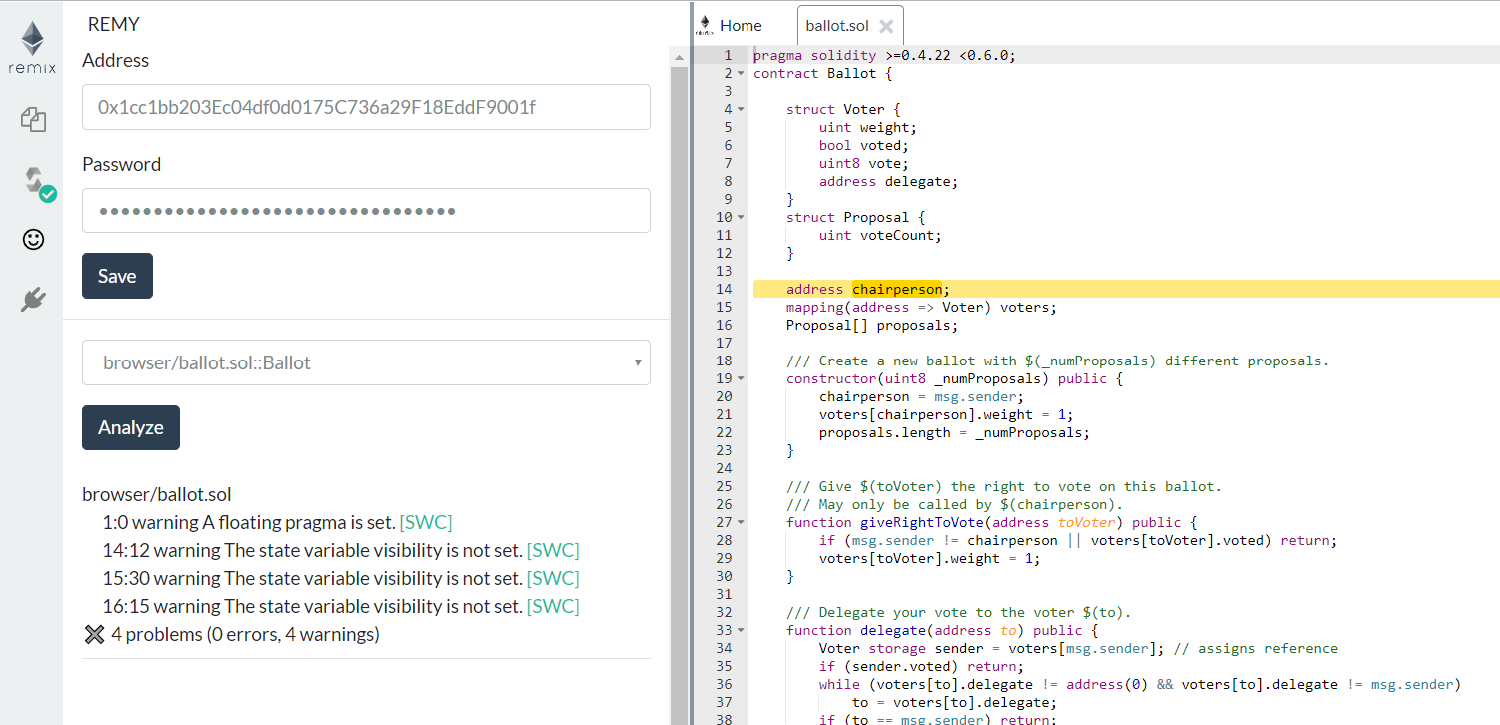
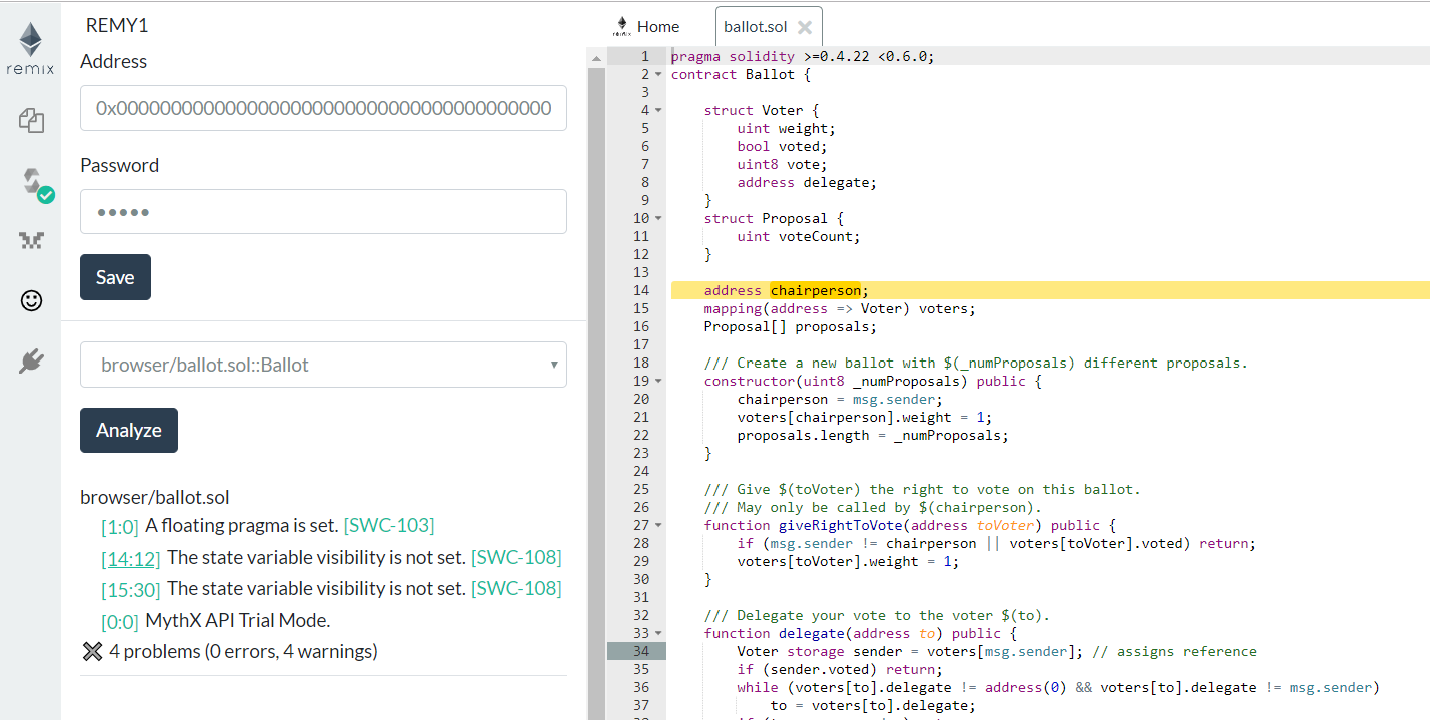
updates report rendering

diff --git a/src/App.js b/src/App.js
@@ -283,7 +283,11 @@ class App extends React.Component {
                                   {`[${m.line + 1}:${m.column}]`}
                                 </button>
                                 <span title={`${m.description}`} style={{ cursor: 'help' }}>{`${m.message}`}</span>
-                                <a href={m.ruleLink} className="pl-1">[{m.ruleId}]</a>
+                                {
+                                  m.ruleId ?
+                                    <a href={m.ruleLink} className="pl-1">[{m.ruleId}]</a> :
+                                    null
+                                }
                               </div>
                             );
                           })
